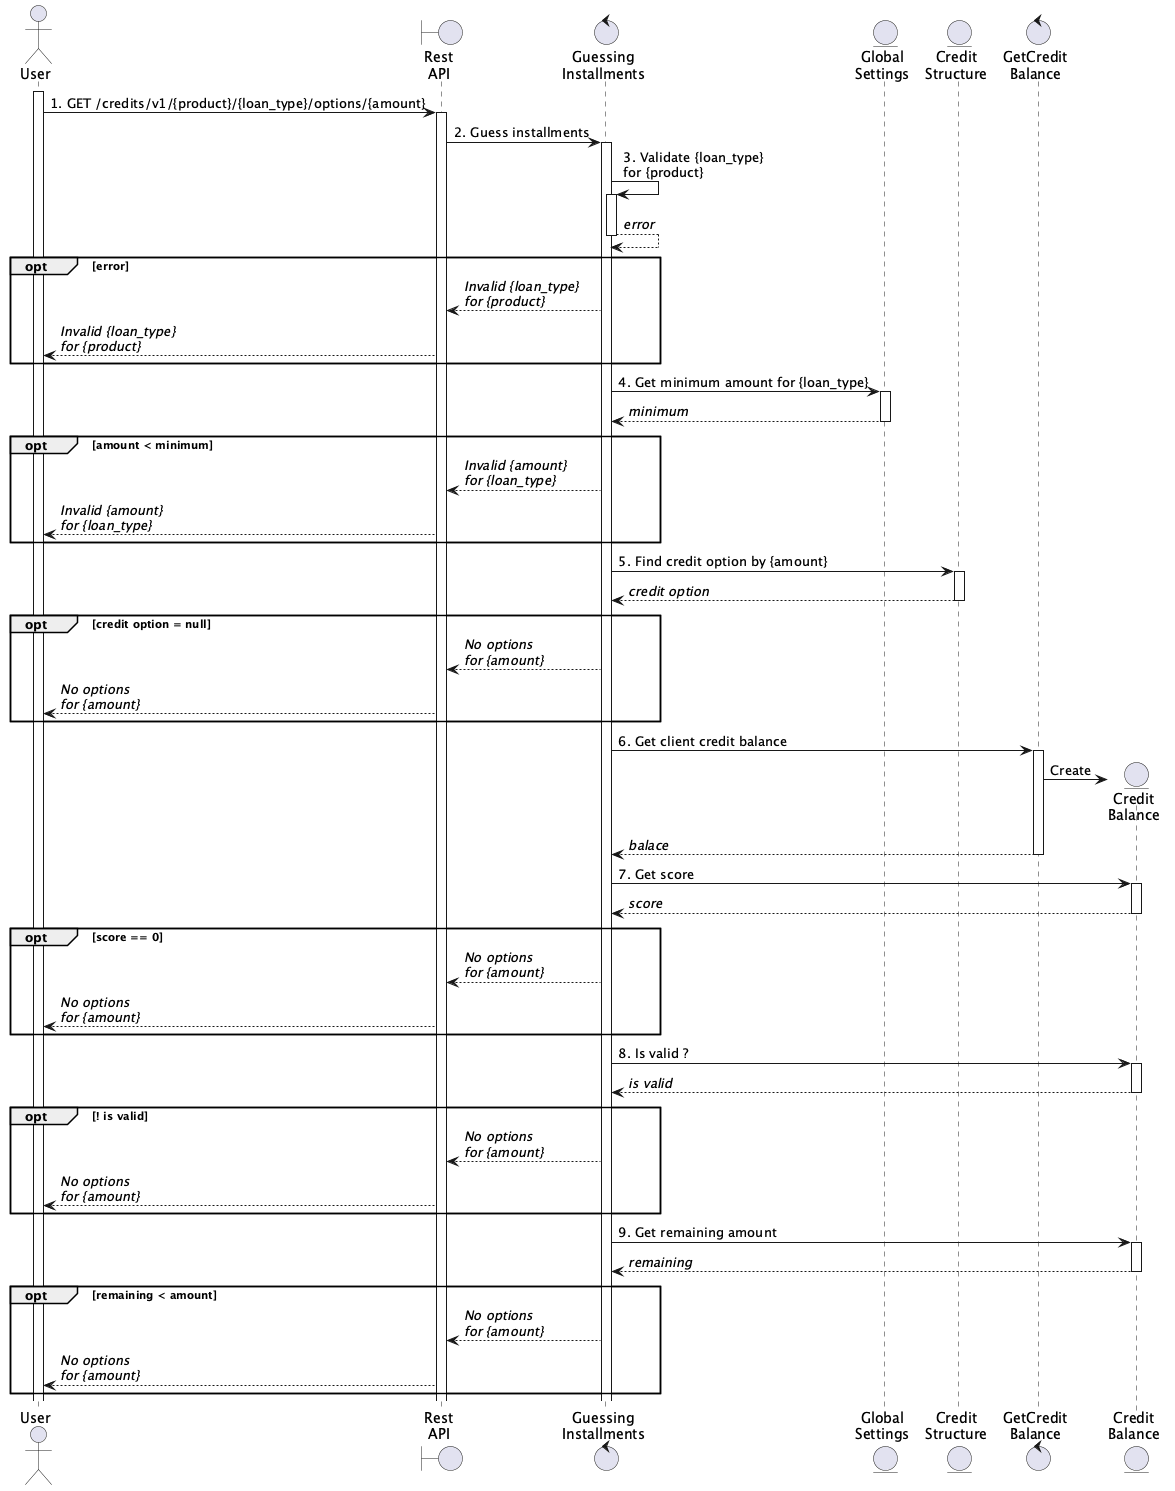
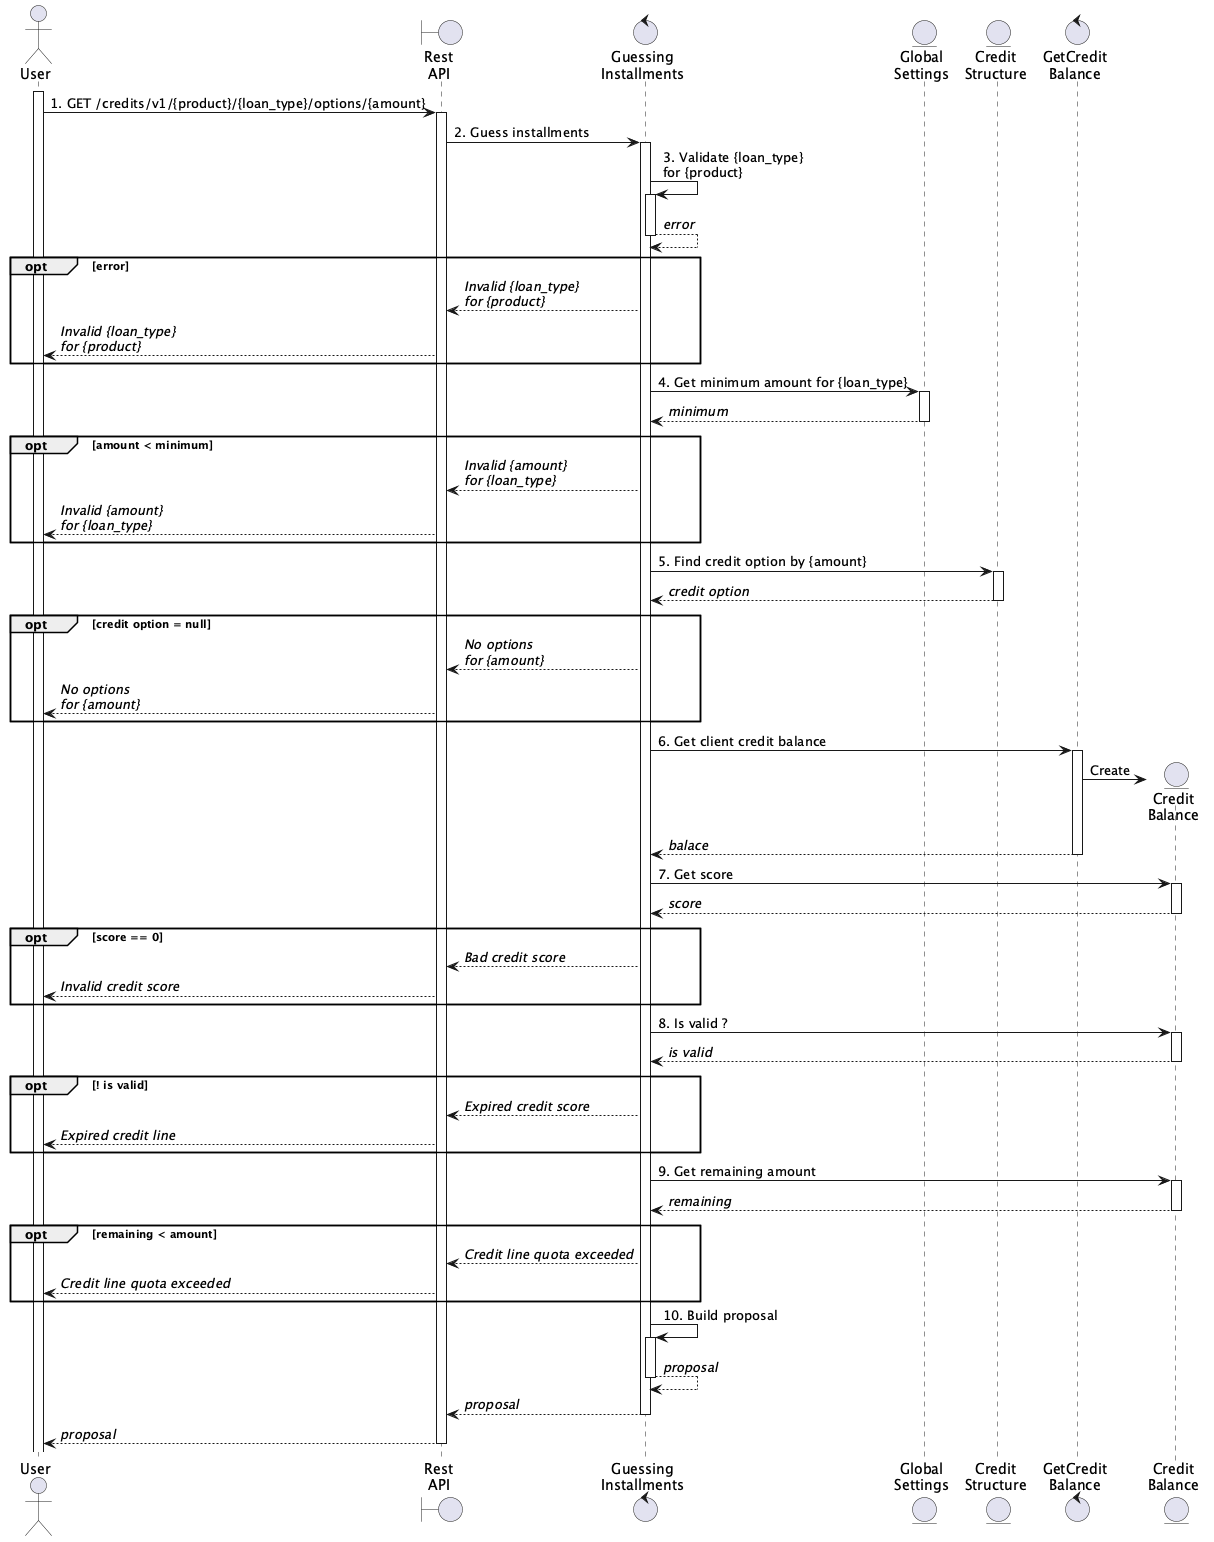
Update installments docs

diff --git a/001-credit-installments/README.md b/001-credit-installments/README.md
@@ -143,6 +143,7 @@
     SELECT * FROM credit_structure cs WHERE cs.active  = 1 AND cs.country_id = 32 AND cs.currency_id = 3 AND cs.amount_delivery = ?;
     ```
 - Los pasos (7), (8) y (9) se encuentran implementados en `We\Domain\Wallets\Advances\WalletAdvancesValidator::performCreditLineQuotaValidation`.
+- El paso (10) se resuelve en la implementación `We\Services\Loans\LoanOptionService::getCurrentByClient`.
 
 ## Dudas
 